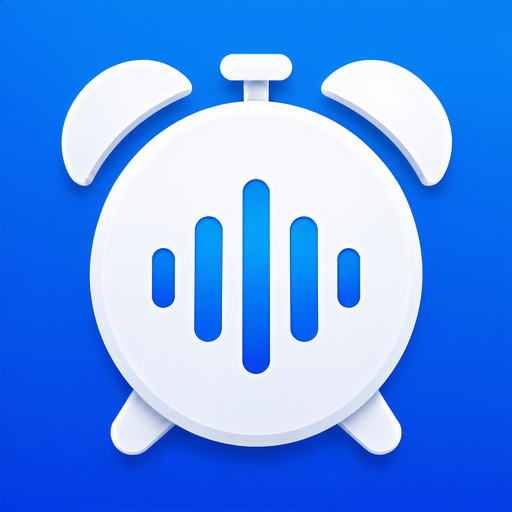
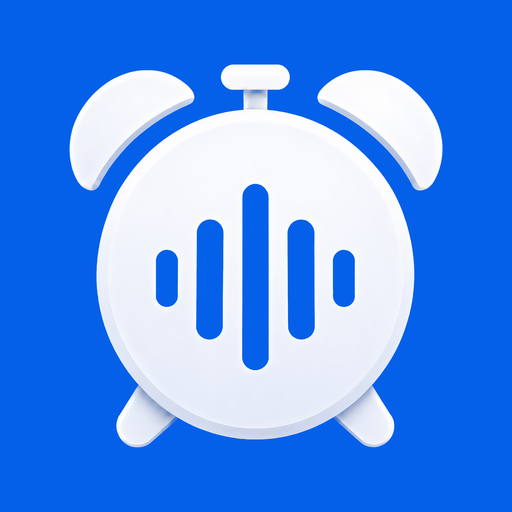
chore(brand): 로고를 단색 파랑 하나로 통일한다
두 폰 홈 화면과 App Store 에 이미 나가 있는 단색 #0560E9 디자인으로 모든 로고를 맞춘다.
그 전에는 세 벌이 섞여 있었다 — 단색(iOS 앱 아이콘·안드로이드 적응형), 그라데이션(원본과
거기서 나온 안드로이드 레거시 PNG·랜딩 아이콘), 청록 그라데이션 + 하트 파형(알림 큰 아이콘).

- 원본(docs/brand/app-icon-master.png): 옛 그라데이션 원본에서 채널 최소값으로 시계만 뽑아
  #0560E9 위에 다시 얹었다. 크기·위치는 iOS AppIcon-1024 를 재서 맞췄다(시계 긴 변
  1532/2048, 가운데). 1024 로 줄여 iOS 아이콘과 비교한 평균 절대 차이 1.47/255 —
  차이는 윤곽선 1~2px 뿐이다(iOS 쪽이 288px 확대본이라 윤곽이 무르다).
- 새 원본에서 다시 만든 것: 안드로이드 레거시 ic_launcher·ic_launcher_round(5밀도),
  알림 큰 아이콘 ic_brand_logo(240), 랜딩 app/icon.png(512)·public/brand-icon.png(256).
- 그대로 둔 것: 적응형 전경·테마(새 원본에서 다시 뽑아도 차이 0.1/255 대), iOS AppIcon
  3종(이미 같은 그림, 바꾸면 앱 릴리스 필요), OG(시계+워드마크 별도 아트).
- 재생성 절차를 README 인라인에서 docs/brand/regenerate-icons.py 로 옮겼다. iOS 는 일부러
  만들지 않고, Play 등록정보 아이콘은 --play 로 저장소 밖에 쓴다.
- colors.xml 의 적응형 배경 주석이 옛 구조(전경이 캔버스를 다 덮는다)를 적고 있어 고쳤다.

diff --git a/docs/brand/regenerate-icons.py b/docs/brand/regenerate-icons.py
@@ -1,0 +1,100 @@
+#!/usr/bin/env python3
+"""브랜드 원본(`docs/brand/*.png`)에서 앱·랜딩 아이콘과 OG 이미지를 다시 만든다.
+
+실행(저장소 루트에서):
+    python3 docs/brand/regenerate-icons.py                  # 저장소 파생물 전부
+    python3 docs/brand/regenerate-icons.py --play out.png   # + Play 스토어 등록정보 아이콘(512)
+
+iOS 앱 아이콘(AppIcon 3종)은 **만들지 않는다** — 바꾸면 앱 릴리스가 따라와야 해서 이 스크립트가
+조용히 건드리면 안 된다. 무엇에서 파생했는지는 `docs/brand/README.md` 에 적어 두었다.
+필요 패키지: Pillow.
+"""
+import argparse
+import pathlib
+
+from PIL import Image, ImageChops, ImageDraw
+
+ROOT = pathlib.Path(__file__).resolve().parents[2]
+BRAND = ROOT / 'docs/brand'
+RES = ROOT / 'apps/android-native/app/src/main/res'
+LANDING = ROOT / 'apps/landing'
+
+LEGACY = {'mdpi': 48, 'hdpi': 72, 'xhdpi': 96, 'xxhdpi': 144, 'xxxhdpi': 192}
+ADAPTIVE = {'mdpi': 108, 'hdpi': 162, 'xhdpi': 216, 'xxhdpi': 324, 'xxxhdpi': 432}
+
+
+def ramp(channel_min, lo, hi):
+    """채널 최소값 = '흰 정도'. lo 이하는 투명, hi 이상은 불투명, 사이는 선형."""
+    return channel_min.point(lambda v: 0 if v <= lo else (255 if v >= hi else int((v - lo) * 255 / (hi - lo))))
+
+
+def centered(src, px):
+    """src 의 긴 변을 캔버스의 54% 로 맞춰 가운데에 놓는다(적응형 108dp 중 54dp)."""
+    canvas = Image.new('RGBA', (px, px), (0, 0, 0, 0))
+    t = round(px * 54 / 108)
+    w, h = src.size
+    sc = t / max(w, h)
+    nw, nh = round(w * sc), round(h * sc)
+    c = src.resize((nw, nh), Image.LANCZOS)
+    canvas.paste(c, ((px - nw) // 2, (px - nh) // 2), c)
+    return canvas
+
+
+def main():
+    ap = argparse.ArgumentParser()
+    ap.add_argument('--play', type=pathlib.Path, help='Play 등록정보 아이콘(512×512 PNG)을 쓸 경로. 저장소에 넣지 않는다.')
+    args = ap.parse_args()
+
+    sq = Image.open(BRAND / 'app-icon-master.png').convert('RGBA')
+
+    # 1) 풀블리드 정사각 아이콘 — 원본을 그대로 줄인다.
+    for d, px in LEGACY.items():
+        img = sq.resize((px, px), Image.LANCZOS)
+        img.save(RES / f'mipmap-{d}/ic_launcher.png')
+        mask = Image.new('L', (px * 4, px * 4), 0)
+        ImageDraw.Draw(mask).ellipse((0, 0, px * 4 - 1, px * 4 - 1), fill=255)
+        rnd = img.copy()
+        rnd.putalpha(mask.resize((px, px), Image.LANCZOS))
+        rnd.save(RES / f'mipmap-{d}/ic_launcher_round.png')
+    # 알림 큰 아이콘(SocialNotificationFactory.setLargeIcon) — 정사각 그대로.
+    sq.resize((240, 240), Image.LANCZOS).save(RES / 'drawable-nodpi/ic_brand_logo.png')
+    sq.resize((512, 512), Image.LANCZOS).save(LANDING / 'app/icon.png')
+    sq.resize((256, 256), Image.LANCZOS).save(LANDING / 'public/brand-icon.png')
+    if args.play:
+        # Play 규격: 512×512, 32비트 PNG, 1MB 이하. 모서리·그림자는 Play 가 씌운다.
+        sq.resize((512, 512), Image.LANCZOS).save(args.play, optimize=True)
+
+    # 2) 적응형 전경 — **원본을 그대로 넣으면 안 된다.** 108dp 중 가운데 72dp 만 보이는
+    #    규칙에 걸려 시계 본체가 잘린다. 배경(#0560E9)은 background 레이어가 맡고, 여기에는
+    #    시계만 넣는다. 시계 안 파형은 배경이 비쳐 보이던 것이라 투명해지고, background
+    #    레이어의 같은 파랑이 그대로 채운다.
+    r, g, b, _ = sq.split()
+    mn = ImageChops.darker(ImageChops.darker(r, g), b)
+    a = ramp(mn, 70, 150)
+    clock = sq.copy()
+    clock.putalpha(a)
+    clock = clock.crop(a.point(lambda v: 255 if v > 8 else 0).getbbox())
+    for d, px in ADAPTIVE.items():
+        centered(clock, px).save(RES / f'mipmap-{d}/ic_launcher_foreground.png')
+
+    # 3) 테마 아이콘(Android 13+) — 시스템이 알파만 보고 단색으로 칠한다. 컬러용보다 단단한
+    #    임계값으로 잘라야 그림자가 안 번진다.
+    am = ramp(mn, 120, 175)
+    sil = Image.new('RGBA', sq.size, (0, 0, 0, 0))
+    sil.putalpha(am)
+    sil = sil.crop(am.point(lambda v: 255 if v > 8 else 0).getbbox())
+    for d, px in ADAPTIVE.items():
+        centered(sil, px).save(RES / f'mipmap-{d}/ic_launcher_monochrome.png')
+
+    # 4) OG 1200×630 — 원본(2.37:1)을 cover 로 맞추고 가운데를 자른다.
+    w = Image.open(BRAND / 'og-master.png').convert('RGB')
+    tw, th = 1200, 630
+    scale = max(tw / w.width, th / w.height)
+    nw, nh = round(w.width * scale), round(w.height * scale)
+    img = w.resize((nw, nh), Image.LANCZOS)
+    left, top = (nw - tw) // 2, (nh - th) // 2
+    img.crop((left, top, left + tw, top + th)).save(LANDING / 'app/opengraph-image.png', optimize=True)
+
+
+if __name__ == '__main__':
+    main()

diff --git a/docs/brand/README.md b/docs/brand/README.md
@@ -1,101 +1,86 @@
 # 브랜드 원본
 
-여기 있는 두 장이 **원본**이고, 앱·랜딩의 아이콘/OG 이미지는 전부 여기서 파생한다.
-로고를 바꾸면 이 파일을 갈아 끼우고 아래 명령을 다시 돌린다.
+여기 있는 두 장이 **원본**이고, 앱·랜딩·스토어의 아이콘/OG 이미지는 전부 여기서 파생한다.
+로고를 바꾸면 이 파일을 갈아 끼우고 `python3 docs/brand/regenerate-icons.py` 를 다시 돌린다.
 
-| 파일 | 크기 | 파생물 |
+| 파일 | 크기 | 무엇 |
 | --- | --- | --- |
-| `app-icon-master.png` | 2048×2048 | 안드로이드 런처 아이콘 20종(레거시·원형·적응형 전경·테마), 랜딩 `app/icon.png`·`public/brand-icon.png` |
-| `og-master.png` | 3104×1312 | 랜딩 `app/opengraph-image.png` (1200×630) |
+| `app-icon-master.png` | 2048×2048 | **단색 `#0560E9` 배경 + 흰 시계 + 단색 파랑 파형**(풀블리드 정사각, 모서리 없음) |
+| `og-master.png` | 3104×1312 | 딥네이비 배경 + 시계 + 워드마크 |
+
+## 로고는 단색 파랑 하나다 (2026-09-29 통일)
+
+두 폰의 홈 화면과 App Store 에 이미 나가 있던 **단색 파랑** 디자인으로 모든 로고를 맞췄다.
+그 전에는 세 벌이 섞여 있었다:
+
+- **단색 파랑** — iOS 앱 아이콘, 안드로이드 적응형 아이콘(홈 화면에 실제로 보이는 것).
+- **그라데이션 파랑** — 옛 원본. 안드로이드 레거시 PNG 와 랜딩 아이콘이 여기서 나왔다.
+- **청록 그라데이션 + 하트 모양 파형** — 더 옛날 로고. 알림 큰 아이콘(`ic_brand_logo`)이 이거였다.
+
+새 원본은 옛 그라데이션 원본(`git show d0bb0e33:docs/brand/app-icon-master.png`)에서 시계만
+뽑아(아래 '채널 최소값' 방법) `#0560E9` 위에 다시 얹은 것이다. 시계 크기·위치는 iOS
+`AppIcon-1024.png` 를 재서 맞췄다 — 시계 bbox 의 긴 변(세로)이 캔버스의 **1532/2048(74.8%)**,
+가운데 정렬. 이 원본을 1024 로 줄여 iOS 아이콘과 비교하면 평균 절대 차이가 **1.47/255**
+이고, 차이는 전부 윤곽선 1~2px 에 있다(iOS 쪽이 288px 에서 확대한 것이라 윤곽이 무르다).
+
+## 파생물
+
+| 파생물 | 크기 | 만드는 법 | 사용자에게 보이는 시점 |
+| --- | --- | --- | --- |
+| 안드로이드 레거시 `mipmap-*/ic_launcher.png` | 48~192 | 원본을 그대로 축소 | 다음 안드로이드 릴리스(단 minSdk 26 이라 실제로는 거의 안 보이는 폴백) |
+| 안드로이드 레거시 `mipmap-*/ic_launcher_round.png` | 48~192 | 원본 축소 + 원형 마스크 | 위와 같음 |
+| 안드로이드 적응형 `mipmap-*/ic_launcher_foreground.png` | 108~432 | 원본에서 **시계만** 뽑아 캔버스 54% | 바뀌지 않음(이미 단색 디자인) |
+| 안드로이드 테마 `mipmap-*/ic_launcher_monochrome.png` | 108~432 | 시계 실루엣(알파만) 54% | 바뀌지 않음 |
+| 안드로이드 적응형 배경 `values/colors.xml` `ic_launcher_background` | — | 원본 배경색 `#0560E9` 그대로 | 바뀌지 않음 |
+| 안드로이드 알림 큰 아이콘 `drawable-nodpi/ic_brand_logo.png` | 240 | 원본을 그대로 축소(정사각) | 다음 안드로이드 릴리스 |
+| 랜딩 파비콘 `apps/landing/app/icon.png` | 512 | 원본 축소 | 다음 `main` 배포 |
+| 랜딩 헤더·푸터 `apps/landing/public/brand-icon.png` | 256 | 원본 축소 | 다음 `main` 배포 |
+| Play 등록정보 고해상도 아이콘 | 512 | 원본 축소(`--play <경로>`) — **저장소에 넣지 않는다** | Play 콘솔/API 로 따로 올린다 |
+| iOS `AppIcon-1024.png` | 1024 | 적응형 전경의 보이는 영역(72dp)을 `#0560E9` 위에 합성 | 바뀌지 않음 — **스크립트가 만들지 않는다** |
+| iOS `AppIcon-1024-dark.png` | 1024 | 딥네이비 `#0A1730` + 흰 실루엣(테마 아이콘에서) | 바뀌지 않음 — **스크립트가 만들지 않는다** |
+| iOS `AppIcon-1024-tinted.png` | 1024 | 검정 + 흰 실루엣(테마 아이콘에서) | 바뀌지 않음 — **스크립트가 만들지 않는다** |
+| 랜딩 OG `apps/landing/app/opengraph-image.png` | 1200×630 | `og-master.png` 를 cover 로 맞추고 가운데 자르기 | 바뀌지 않음 |
+
+- **iOS 3종은 스크립트 밖이다.** 앱 아이콘은 IPA 에 실려 있어 바꾸면 앱 릴리스가 따라와야 한다 —
+  아이콘만 바꾸려고 돌린 스크립트가 iOS 파일까지 조용히 바꾸면 안 된다. 지금 세 장은 새 원본과
+  이미 같은 그림이다(위 1.47/255, dark·tinted 의 실루엣 bbox 도 원본과 1~2px 안).
+- **적응형 전경·테마는 옛 그라데이션 원본에서 뽑은 것을 그대로 두었다.** 새 원본에서 다시 뽑아도
+  평균 차이가 0.1/255 대라(시계 윤곽 반투명 픽셀만 다르다) 굳이 바꾸지 않았다. 스크립트를 다시
+  돌리면 이 10장도 새로 쓰이는데, 눈으로는 차이가 없으니 그대로 커밋해도 된다.
+- **OG 는 영향이 없다.** `og-master.png` 는 정사각 아이콘이 아니라 네이비 배경 위의 시계와
+  워드마크라, 배경이 그라데이션이냐 단색이냐는 문제가 여기에는 없다.
 
 ## 다시 만들기
 
 ```bash
-python - <<'PY'
-from PIL import Image, ImageDraw
-
-SQ = Image.open('docs/brand/app-icon-master.png').convert('RGBA')
-RES = 'apps/android-native/app/src/main/res'
-
-# 레거시 런처(48dp 기준) + 원형
-for d, px in {'mdpi':48,'hdpi':72,'xhdpi':96,'xxhdpi':144,'xxxhdpi':192}.items():
-    img = SQ.resize((px, px), Image.LANCZOS)
-    img.save(f'{RES}/mipmap-{d}/ic_launcher.png')
-    mask = Image.new('L', (px*4, px*4), 0)
-    ImageDraw.Draw(mask).ellipse((0, 0, px*4-1, px*4-1), fill=255)
-    rnd = img.copy(); rnd.putalpha(mask.resize((px, px), Image.LANCZOS))
-    rnd.save(f'{RES}/mipmap-{d}/ic_launcher_round.png')
-
-# 적응형 foreground — **원본을 그대로 넣으면 안 된다.**
-# 원본은 이미 완성된 풀블리드 아이콘(파란 배경 + 시계가 76%)이라 그대로 넣으면
-# 108dp 중 가운데 72dp 만 보이는 규칙에 걸려 시계 본체가 통째로 잘리고 파형만 남는다.
-# 배경(파랑)은 background 레이어가 맡고, foreground 에는 **시계만** 넣는다.
-# 파란 배경에서 시계를 뽑는다: 배경은 R 이 낮고 흰 시계는 R·G·B 가 모두 높다 →
-# 채널 최소값이 곧 '흰 정도'. 시계 안 파형은 배경이 비쳐 보이던 것이라 투명해지고,
-# background 레이어의 같은 파랑이 그대로 채운다.
-from PIL import ImageChops
-r, g, b = SQ.convert('RGB').split()
-mn = ImageChops.darker(ImageChops.darker(r, g), b)
-a = mn.point(lambda v: 0 if v <= 70 else (255 if v >= 150 else int((v - 70) * 255 / 80)))
-clock = SQ.convert('RGBA'); clock.putalpha(a)
-clock = clock.crop(a.point(lambda v: 255 if v > 8 else 0).getbbox())
-
-# 시계 bbox 를 108dp 캔버스의 54% 로. 근거: 마스크 안에서 실제 보이는 건 가운데 72dp,
-# 원형 마스크 반지름은 36 이고, 종 끝이 bbox 반대각선의 92% 지점(중심에서 0.65*S)이라
-# S=54 면 35.1 < 36 으로 **어떤 마스크에서도 안 잘린다**. 58 은 원형에서 종이 가장자리에
-# 닿고, 50 은 눈에 띄게 작다.
-for d, px in {'mdpi':108,'hdpi':162,'xhdpi':216,'xxhdpi':324,'xxxhdpi':432}.items():
-    canvas = Image.new('RGBA', (px, px), (0, 0, 0, 0))
-    t = round(px * 54 / 108)
-    w, h = clock.size
-    sc = t / max(w, h)
-    nw, nh = round(w * sc), round(h * sc)
-    c = clock.resize((nw, nh), Image.LANCZOS)
-    canvas.paste(c, ((px - nw) // 2, (px - nh) // 2), c)
-    canvas.save(f'{RES}/mipmap-{d}/ic_launcher_foreground.png')
-
-# 테마 아이콘(Android 13+) — 시스템이 **알파만 보고 단색으로 칠한다.**
-# 컬러용(70~150)보다 단단한 임계값으로 잘라야 그림자가 안 번지고 실루엣이 깔끔하다.
-# 시계 안 파형은 여기서도 구멍이라 테마 배경색이 그대로 비친다.
-am = mn.point(lambda v: 0 if v <= 120 else (255 if v >= 175 else int((v - 120) * 255 / 55)))
-sil = Image.new('RGBA', SQ.size, (0, 0, 0, 0)); sil.putalpha(am)
-sil = sil.crop(am.point(lambda v: 255 if v > 8 else 0).getbbox())
-for d, px in {'mdpi':108,'hdpi':162,'xhdpi':216,'xxhdpi':324,'xxxhdpi':432}.items():
-    canvas = Image.new('RGBA', (px, px), (0, 0, 0, 0))
-    t = round(px * 54 / 108)
-    w, h = sil.size
-    sc = t / max(w, h)
-    nw, nh = round(w * sc), round(h * sc)
-    c = sil.resize((nw, nh), Image.LANCZOS)
-    canvas.paste(c, ((px - nw) // 2, (px - nh) // 2), c)
-    canvas.save(f'{RES}/mipmap-{d}/ic_launcher_monochrome.png')
-
-SQ.resize((512, 512), Image.LANCZOS).save('apps/landing/app/icon.png')
-SQ.resize((256, 256), Image.LANCZOS).save('apps/landing/public/brand-icon.png')
-
-# OG 1200x630 — 원본(2.37:1)을 cover 로 맞추고 가운데를 자른다.
-w = Image.open('docs/brand/og-master.png').convert('RGB')
-tw, th = 1200, 630
-scale = max(tw / w.width, th / w.height)
-nw, nh = round(w.width * scale), round(w.height * scale)
-img = w.resize((nw, nh), Image.LANCZOS)
-left, top = (nw - tw) // 2, (nh - th) // 2
-img.crop((left, top, left + tw, top + th)).save('apps/landing/app/opengraph-image.png', optimize=True)
-PY
+python3 docs/brand/regenerate-icons.py                         # 저장소 파생물 전부
+python3 docs/brand/regenerate-icons.py --play /tmp/play-512.png  # + Play 등록정보 아이콘
 ```
+
+스크립트가 하는 일과 이유(요약):
+
+- **적응형 foreground 에 원본을 그대로 넣으면 안 된다.** 원본은 완성된 풀블리드 아이콘(파란 배경
+  + 시계가 약 75%)이라, 108dp 중 가운데 72dp 만 보이는 규칙에 걸려 시계 본체가 잘리고 파형만
+  남는다. 배경(파랑)은 background 레이어가 맡고 foreground 에는 **시계만** 넣는다.
+- **시계 뽑기 = 채널 최소값.** 배경은 R 이 낮고 흰 시계는 R·G·B 가 모두 높다 → 세 채널의
+  최소값이 곧 '흰 정도'. 70 이하 투명·150 이상 불투명으로 알파를 만든다. 시계 안 파형은
+  배경이 비쳐 보이던 것이라 투명해지고, background 레이어의 같은 파랑이 그대로 채운다.
+- **시계 bbox 를 108dp 캔버스의 54% 로.** 마스크 안에서 실제 보이는 건 가운데 72dp, 원형
+  마스크 반지름은 36 이고, 종 끝이 bbox 반대각선의 92% 지점(중심에서 0.65×S)이라 S=54 면
+  35.1 < 36 으로 **어떤 마스크에서도 안 잘린다**. 58 은 원형에서 종이 가장자리에 닿고, 50 은
+  눈에 띄게 작다. (54/72 = 75% 라서 원본의 시계 크기(74.8%)와 거의 같은 비율로 보인다.)
+- **테마 아이콘**(Android 13+)은 시스템이 **알파만 보고 단색으로 칠한다.** 컬러용(70~150)보다
+  단단한 임계값(120~175)으로 잘라야 그림자가 안 번지고 실루엣이 깔끔하다. 크기·중심은 전경과
+  같은 54% — 어긋나면 테마를 켤 때마다 아이콘이 튀어 보인다. `mipmap-anydpi-v26/ic_launcher{,_round}.xml`
+  의 `<monochrome>` 으로 연결되고, 사용자가 테마 아이콘을 켰을 때만 쓰인다.
 
 OG 이미지를 `[locale]/` 밖에 두는 이유: 이미지는 로케일별로 다르지 않고, `[locale]/`
 아래에 두면 `output: export` 가 그 라우트에도 `generateStaticParams()` 를 요구해
 빌드가 깨진다(동적 생성 라우트를 정적 파일로 바꾼 것도 같은 이유).
 
-**적응형 아이콘 배경색**은 `values/colors.xml` 의 `ic_launcher_background` = `#0560E9` 다.
-원본 배경(그라데이션)의 평균색이라 시계 안 파형 색과 이어진다 — 여기가 어긋나면 파형만
-다른 파랑으로 떠 보인다. 기기가 아이콘을 확대·시차 이동시킬 때도 이 색이 가장자리에 드러난다.
-
-**테마 아이콘**(`ic_launcher_monochrome.png`)은 `mipmap-anydpi-v26/ic_launcher{,_round}.xml`
-의 `<monochrome>` 으로 연결한다. Android 13+ 에서 사용자가 테마 아이콘을 켰을 때만 쓰이고,
-안 켜져 있으면 평소 아이콘이 그대로 나온다. 크기·중심은 전경과 같은 54% 로 맞춘다 —
-어긋나면 테마를 켤 때마다 아이콘이 튀어 보인다.
+**적응형 아이콘 배경색**(`values/colors.xml` 의 `ic_launcher_background` = `#0560E9`)은 원본
+배경색과 **같은 값이어야 한다** — 어긋나면 시계 안 파형만 다른 파랑으로 떠 보이고, 기기가
+아이콘을 확대·시차 이동시킬 때 가장자리에도 드러난다.
 
 레거시 `ic_launcher.png`·`ic_launcher_round.png` 는 풀블리드 원본 그대로 둔다 — minSdk 26
 이라 모든 기기가 적응형을 쓰고, 이 PNG 들은 마스크·확대가 적용되지 않는 폴백이다.
